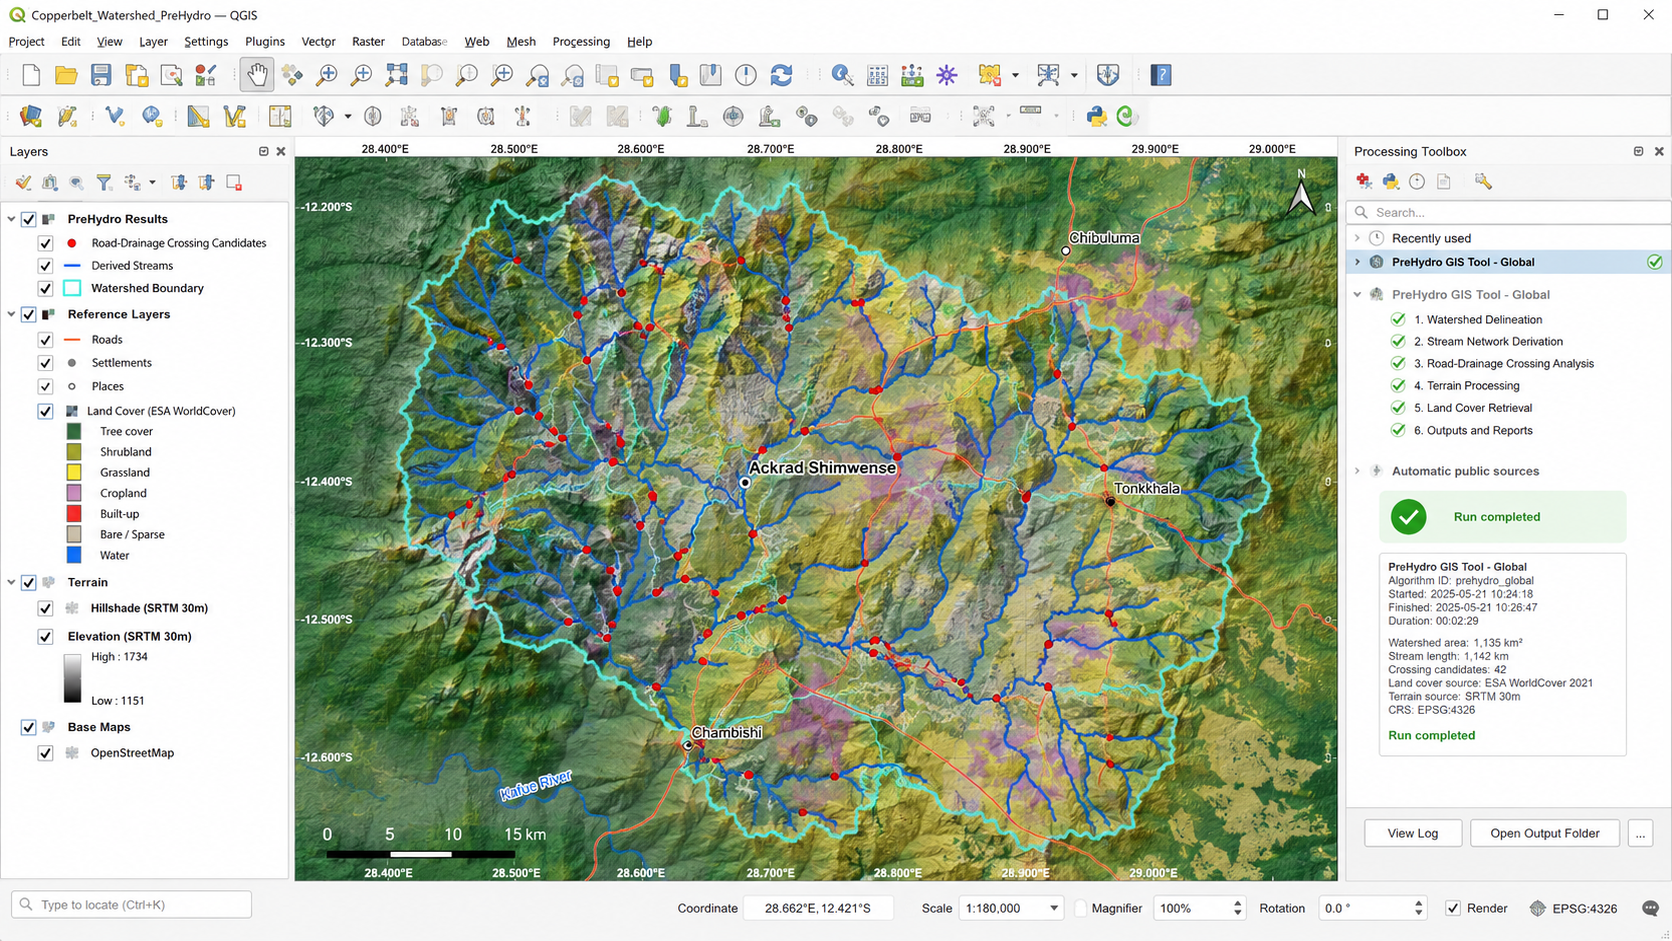
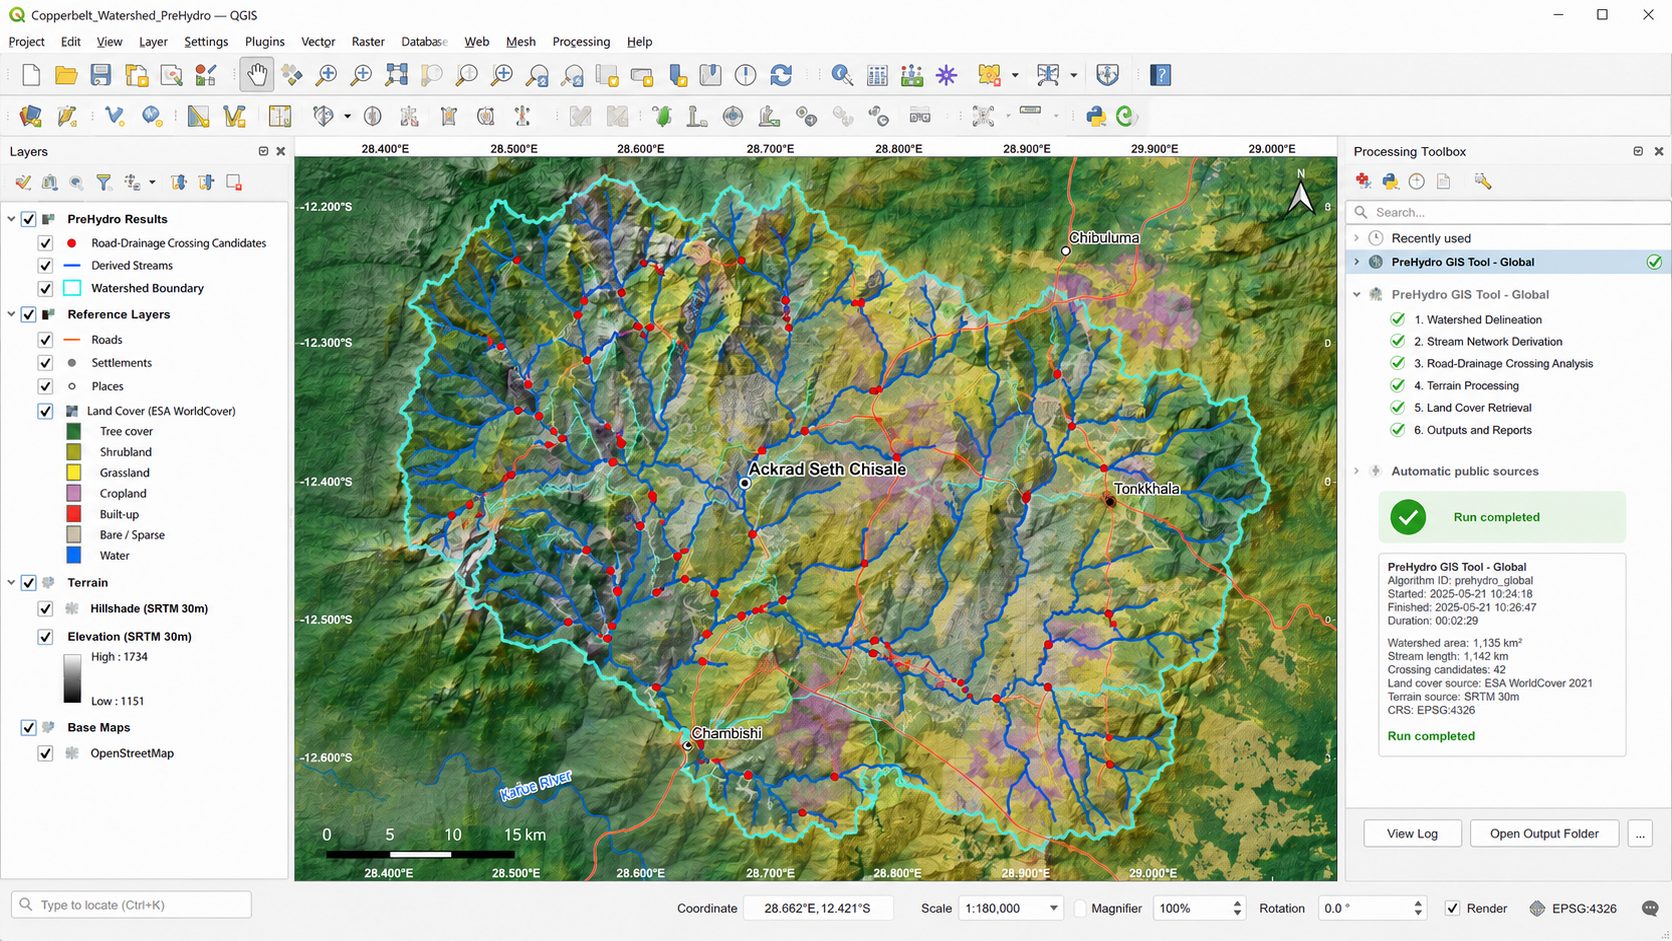
Correct author identity in project documentation

diff --git a/README.md b/README.md
@@ -1,6 +1,6 @@
 # PreHydro GIS Tool — Global QGIS Edition 4.2
 
-**Built by Ackrad Shimwense**
+**Built by Ackrad Seth Chisale**
 
 This is the open-source, international version of PreHydro. It takes a site or watershed boundary, chooses a sensible local projected CRS, obtains supported public datasets when local authoritative data is unavailable, derives terrain and drainage products, and records every source used.
 
@@ -165,4 +165,3 @@ The current release passes **10 automated tests** across acquisition safeguards,
 ## Engineering boundary
 
 This plugin prepares GIS evidence. It does not choose design storms, runoff parameters, roughness, structures, flows or hydraulic boundary conditions. Those choices require verified local data and accountable engineering review.
-
